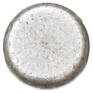
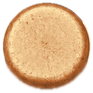
Update README.md for improved project documentation

diff --git a/src/main.rs b/src/main.rs
@@ -382,6 +382,7 @@ impl PongApp {
         };
         let painter = ui.painter().clone();
         let court = Court::new(rect.width(), rect.height(), &self.settings);
+        let scale = rect.width() / 800.0;
         let color = game_colour(self.settings.colour);
         let center_x = rect.center().x;
         if self.audio_error.is_some() {
@@ -389,7 +390,7 @@ impl PongApp {
                 Pos2::new(center_x, rect.top() + rect.height() * 0.12),
                 Align2::CENTER_CENTER,
                 "SOUND OUTPUT UNAVAILABLE",
-                FontId::proportional(12.0),
+                FontId::proportional(12.0 * scale),
                 Color32::from_rgb(255, 120, 100),
             );
         }
@@ -401,11 +402,11 @@ impl PongApp {
             painter.line_segment(
                 [
                     Pos2::new(center_x, dash_y),
-                    Pos2::new(center_x, (dash_y + 8.0).min(bottom)),
+                    Pos2::new(center_x, (dash_y + 8.0 * scale).min(bottom)),
                 ],
-                Stroke::new(4.0_f32, Color32::from_rgb(86, 86, 86)),
+                Stroke::new(4.0 * scale, Color32::from_rgb(86, 86, 86)),
             );
-            dash_y += 18.0;
+            dash_y += 18.0 * scale;
         }
 
         let paddle_half = court.paddle_height / 2.0;
@@ -517,15 +518,15 @@ impl PongApp {
         labels.push("ESC: SETUP");
         let total_width = labels
             .iter()
-            .map(|label| label.len() as f32 * (rect.width() * 0.008).max(7.0) + 32.0)
+            .map(|label| (label.len() as f32 * 7.0 + 32.0) * scale)
             .sum::<f32>()
-            + (labels.len().saturating_sub(1) as f32 * 6.0);
+            + (labels.len().saturating_sub(1) as f32 * 6.0 * scale);
         let mut x = center_x - total_width / 2.0;
         for label in labels {
-            let width = label.len() as f32 * (rect.width() * 0.008).max(7.0) + 32.0;
+            let width = (label.len() as f32 * 7.0 + 32.0) * scale;
             let button_rect = Rect::from_center_size(
                 Pos2::new(x + width / 2.0, controls_y),
-                Vec2::new(width, 32.0),
+                Vec2::new(width, 32.0 * scale),
             );
             if ui
                 .put(
@@ -549,7 +550,7 @@ impl PongApp {
                     Action::None
                 };
             }
-            x += width + 6.0;
+            x += width + 6.0 * scale;
         }
         action
     }
@@ -605,33 +606,34 @@ impl PongApp {
 
 impl eframe::App for PongApp {
     fn update(&mut self, ctx: &Context, _frame: &mut eframe::Frame) {
-        let size = ctx.available_rect().size();
-        if self.screen == Screen::Game {
-            self.tick_game(ctx, size);
-        }
-
         let mut action = Action::None;
-        let background = if self.screen == Screen::Setup {
-            SETUP_BACKGROUND
-        } else {
-            BLACK
-        };
+        let mut game_size = Vec2::ZERO;
         egui::CentralPanel::default()
-            .frame(egui::Frame::none().fill(background))
+            .frame(egui::Frame::none().fill(BLACK))
             .show(ctx, |ui| {
                 let rect = ui.max_rect();
+                let game_rect = gameplay_rect(rect);
+                game_size = game_rect.size();
+                if self.screen == Screen::Game {
+                    self.tick_game(ctx, game_size);
+                }
+                let background = if self.screen == Screen::Setup {
+                    SETUP_BACKGROUND
+                } else {
+                    BLACK
+                };
                 ui.painter().rect_filled(rect, 0.0, background);
                 if self.screen == Screen::Game && self.settings.scanlines {
-                    draw_scanlines(ui.painter(), rect, ui.ctx().pixels_per_point());
+                    draw_scanlines(ui.painter(), game_rect, ui.ctx().pixels_per_point());
                 }
                 action = match self.screen {
                     Screen::Setup => self.draw_setup(ui, rect),
-                    Screen::Game => self.draw_game(ui, rect),
+                    Screen::Game => self.draw_game(ui, game_rect),
                 };
             });
 
         match action {
-            Action::Start => self.begin_match(size),
+            Action::Start => self.begin_match(game_size),
             Action::Setup => self.finish_match(),
             Action::TogglePause => {
                 if let Some(game) = self.game.as_mut() {
@@ -645,6 +647,11 @@ impl eframe::App for PongApp {
             ctx.request_repaint_after(Duration::from_millis(16));
         }
     }
+}
+
+fn gameplay_rect(rect: Rect) -> Rect {
+    let width = rect.width().min(rect.height() * 16.0 / 9.0);
+    Rect::from_center_size(rect.center(), Vec2::new(width, width * 9.0 / 16.0))
 }
 
 fn setting_title(id: SettingId) -> &'static str {
@@ -803,7 +810,8 @@ fn main() -> eframe::Result<()> {
         viewport: egui::ViewportBuilder::default()
             .with_title("Pong '76")
             .with_icon(icon)
-            .with_inner_size([800.0, 600.0]),
+            .with_inner_size([960.0, 540.0])
+            .with_min_inner_size([640.0, 480.0]),
         ..Default::default()
     };
     eframe::run_native(
@@ -823,5 +831,27 @@ mod joystick_tests {
         assert_eq!(gamepad_vertical_input(-0.8, false, false), 0.8);
         assert_eq!(gamepad_vertical_input(0.0, true, false), -1.0);
         assert_eq!(gamepad_vertical_input(0.0, false, true), 1.0);
+    }
+}
+
+#[cfg(test)]
+mod layout_tests {
+    use super::{gameplay_rect, Pos2, Rect, Vec2};
+
+    #[test]
+    fn gameplay_fits_and_centers_on_wide_tall_and_four_by_three_windows() {
+        for (window, expected) in [
+            (Vec2::new(1920.0, 1080.0), Vec2::new(1920.0, 1080.0)),
+            (Vec2::new(1080.0, 1920.0), Vec2::new(1080.0, 607.5)),
+            (Vec2::new(800.0, 600.0), Vec2::new(800.0, 450.0)),
+            (Vec2::new(2560.0, 1080.0), Vec2::new(1920.0, 1080.0)),
+        ] {
+            let bounds = Rect::from_min_size(Pos2::new(25.0, 40.0), window);
+            let game = gameplay_rect(bounds);
+            assert_eq!(game.size(), expected);
+            assert_eq!(game.center(), bounds.center());
+            assert_eq!(game.width() * 9.0, game.height() * 16.0);
+            assert!(bounds.contains_rect(game));
+        }
     }
 }

diff --git a/src/game.rs b/src/game.rs
@@ -175,6 +175,7 @@ impl Game {
         self.right_y *= height / self.height;
         self.ball_vx *= width / self.width;
         self.ball_vy *= height / self.height;
+        self.ball_speed *= width / self.width;
         self.width = width;
         self.height = height;
     }
@@ -492,5 +493,18 @@ mod tests {
         game.ball_y = 150.0;
         game.resize(1600.0, 1200.0);
         assert_eq!((game.ball_x, game.ball_y), (400.0, 300.0));
+    }
+
+    #[test]
+    fn resizing_scales_later_serves_as_well_as_the_current_ball() {
+        let settings = Settings::default();
+        let mut game = Game::new(&settings, 800.0, 600.0);
+        game.serve(&settings);
+        let initial_speed = game.ball_vx.hypot(game.ball_vy);
+        game.resize(1600.0, 1200.0);
+        assert!((game.ball_vx.hypot(game.ball_vy) - initial_speed * 2.0).abs() < 0.001);
+        game.reset_match(&settings);
+        game.serve(&settings);
+        assert!((game.ball_vx.hypot(game.ball_vy) - initial_speed * 2.0).abs() < 0.001);
     }
 }

diff --git a/README.md b/README.md
@@ -11,9 +11,10 @@ Sports Centre 6000 Colour.
 
 ## Game setup screen
 
-The application starts on the setup screen in a resizable 800 x 600 window.
+The application starts on the setup screen in a resizable 960 x 540 window
+(minimum 640 x 480).
 The screen has a dark brown background matching the banner, the Pong '76 logo,
-and two rows of compact, metal lever switches
+and two rows of compact, bronze-toned metal lever switches
 inspired by 1970s hardware for player mode, paddle size, ball angle, game
 speed, scanlines, keyboard or joystick controls, game colour, and autoserve.
 The ball-angle slider offers 20 or 40 degrees; speed ranges from slow to fast.
@@ -36,7 +37,9 @@ built into the game using Gilrs; select JOYSTICK in setup and run the game
 normally.
 
 The selected colour applies to gameplay, while enabled scanlines stay behind
-the game. Paddles and the ball scale with the window. A match is won when a
+the game. The gameplay area scales to fit the window while retaining a 16:9
+aspect ratio, with black bars when needed. Paddles and the ball scale with the
+gameplay area. A match is won when a
 player reaches at least 11 points with a two-point lead. Autoserve
 defaults to “No”, which waits for Space or the controller's South button
 (A/X); “Yes” launches automatically at the start and after points. Use the
@@ -63,6 +66,16 @@ cargo run
 ```
 
 Run the game-logic tests with `cargo test`.
+
+If the project is on a network drive and Cargo reports an incremental
+compilation cache error, use a local target directory instead:
+
+```bash
+CARGO_TARGET_DIR="$HOME/.cache/pong76-target" cargo run
+```
+
+Use the same `CARGO_TARGET_DIR` with `cargo test`. The packaging scripts
+expect the default `target` directory and should be run without this setting.
 
 ## Linux AppImage
 
